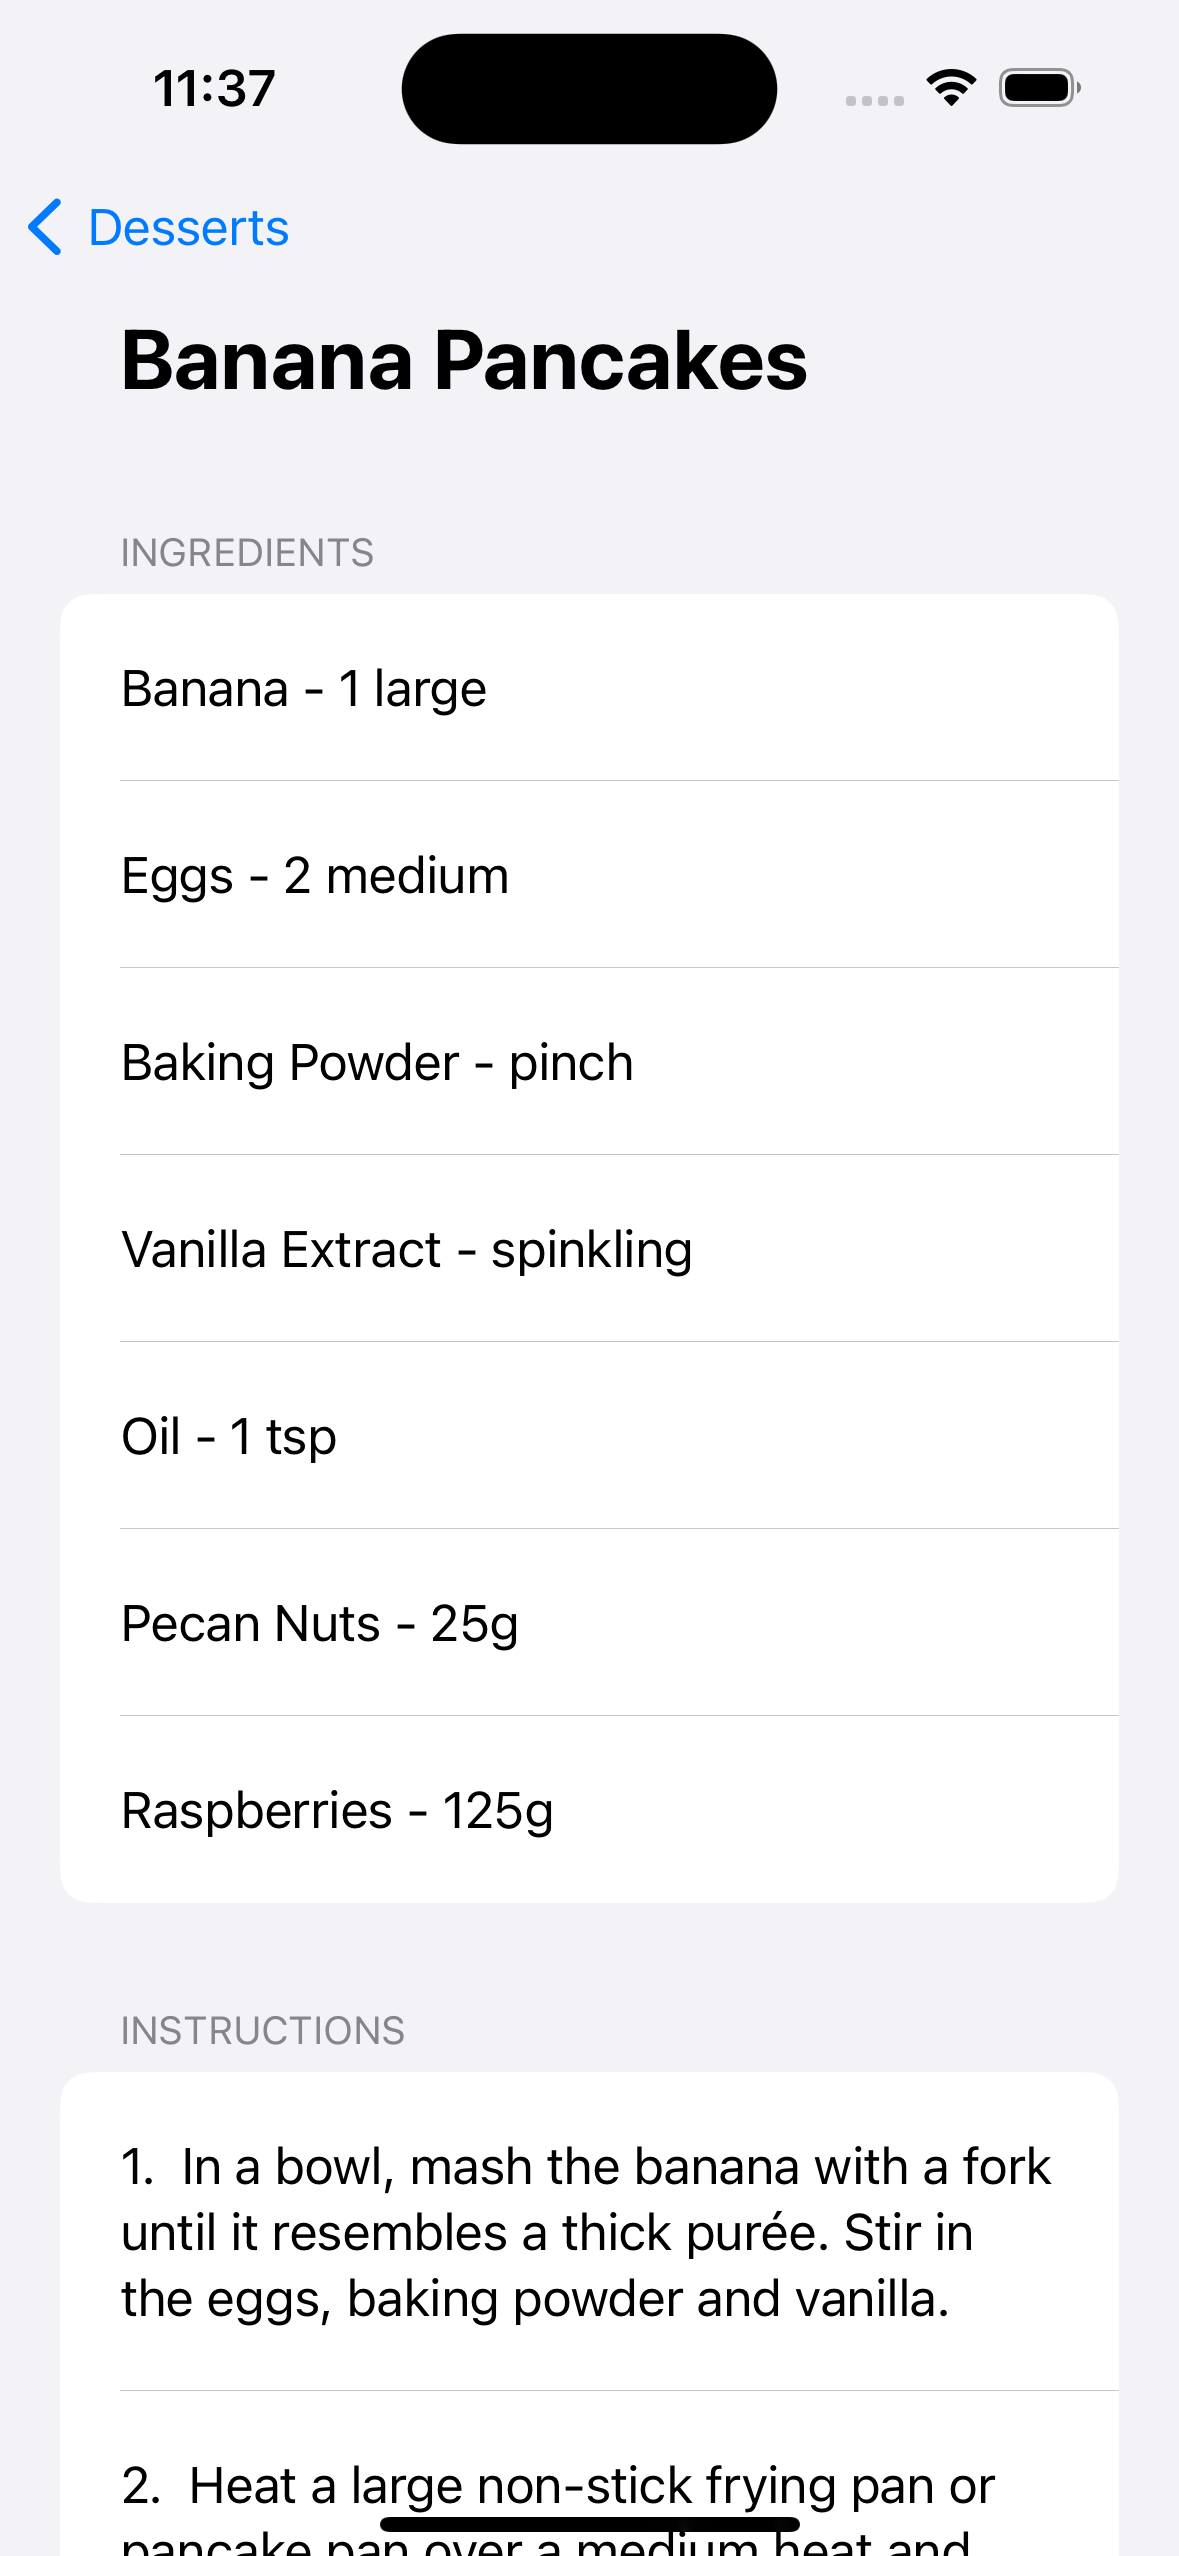
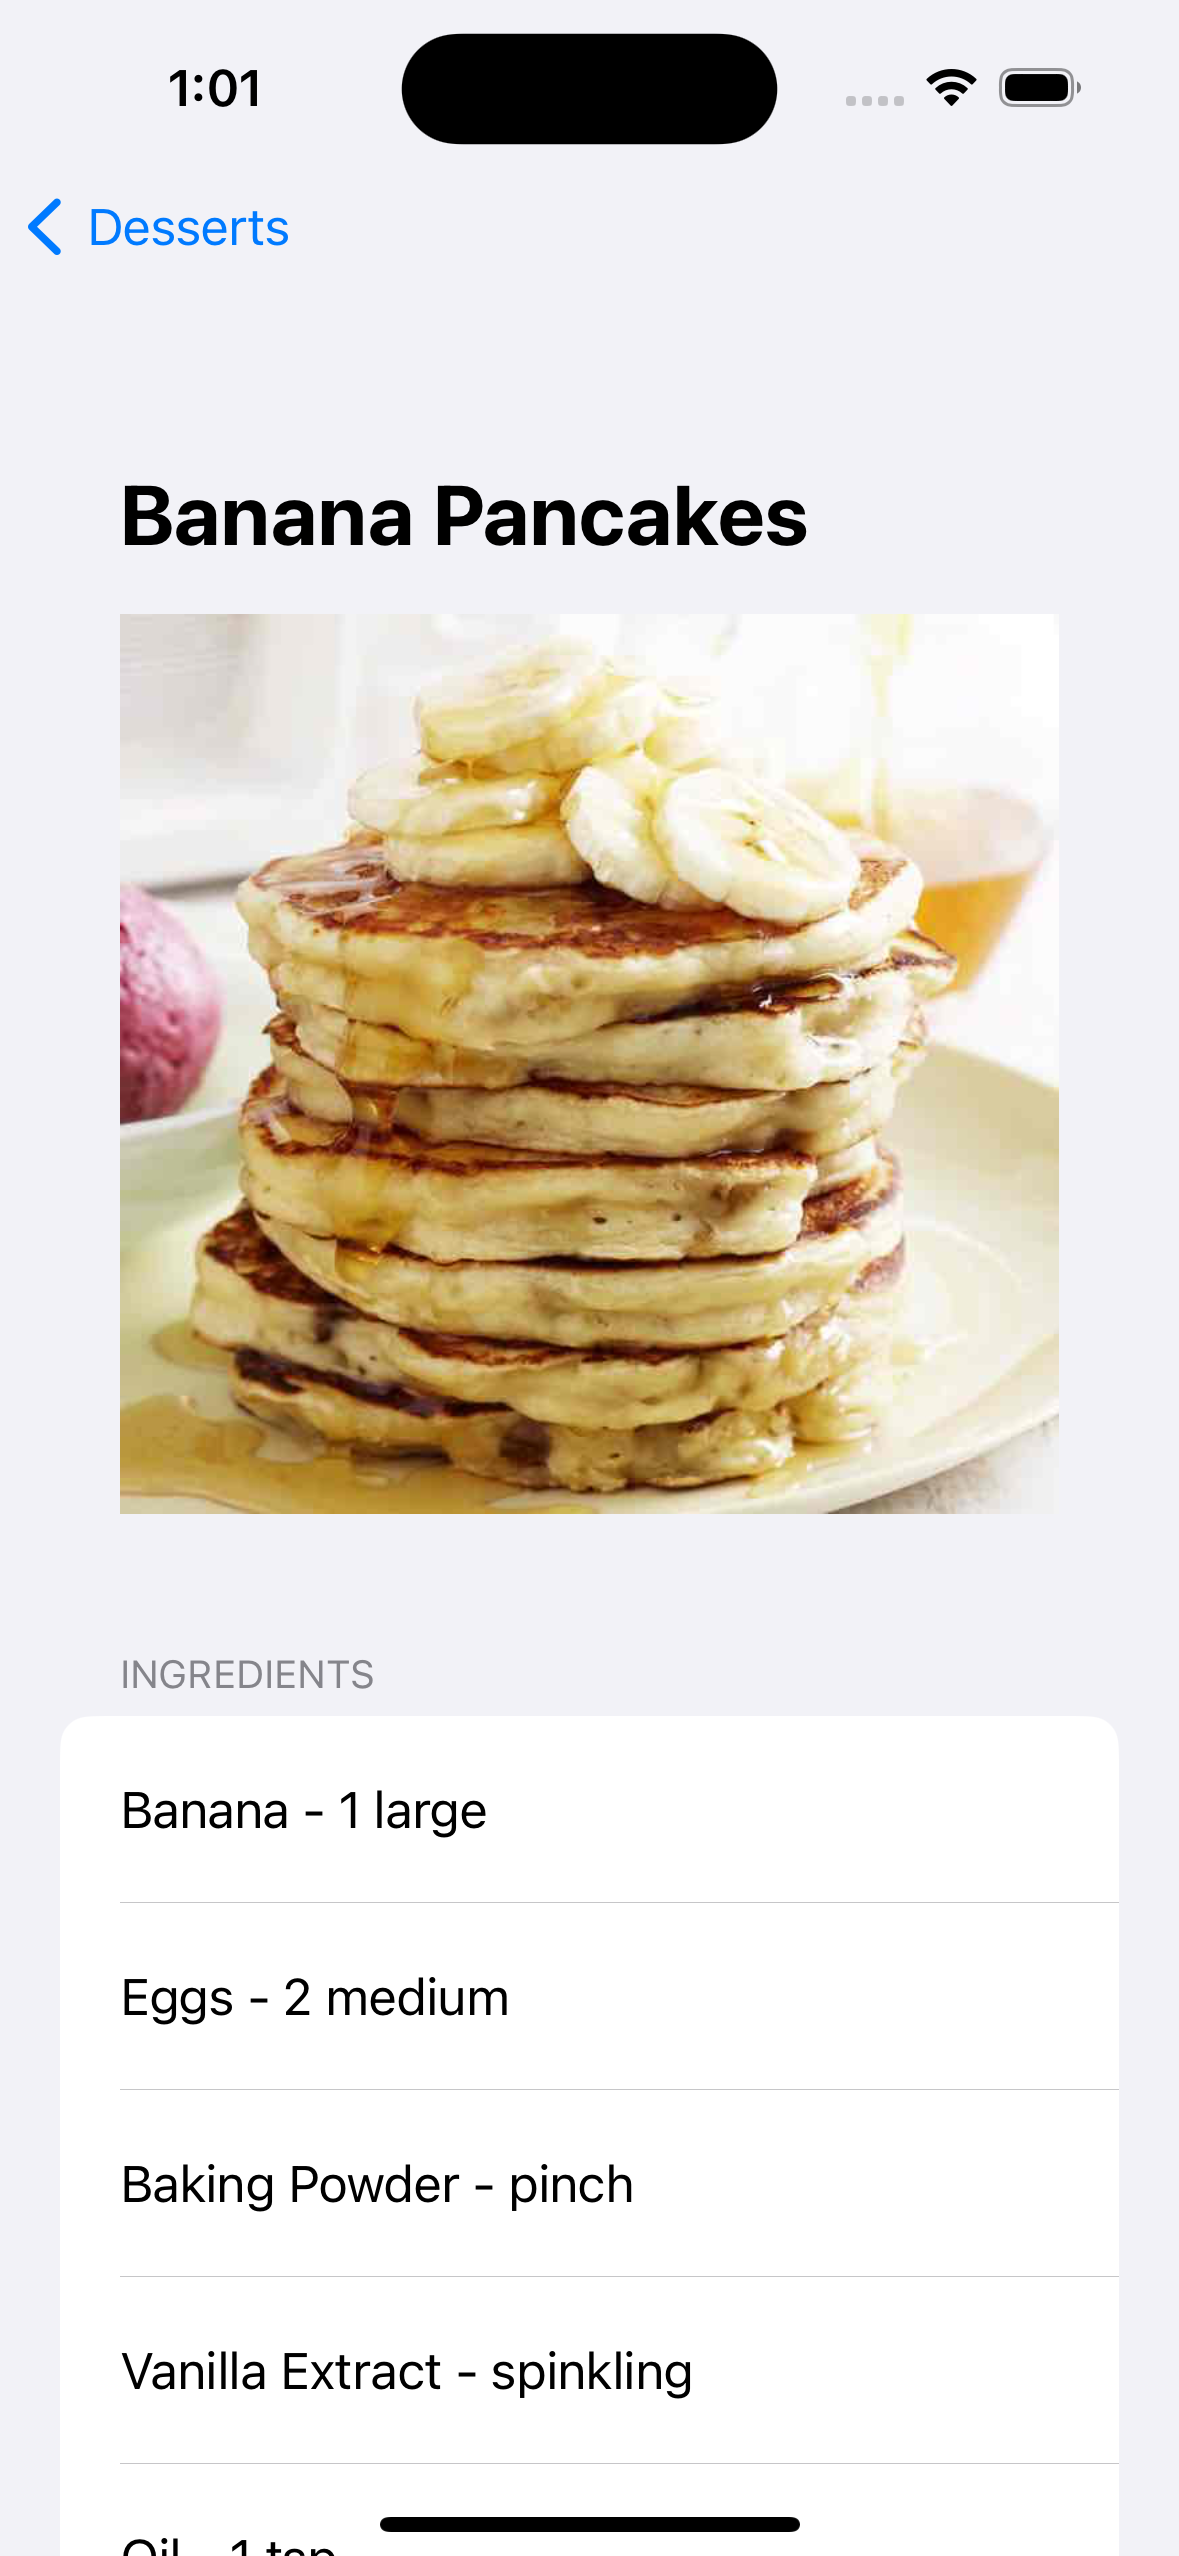
Display dessert image

diff --git a/Desserts/Network/ImageLoader.swift b/Desserts/Network/ImageLoader.swift
@@ -1,0 +1,63 @@
+//
+//  ImageLoader.swift
+//  Desserts
+//
+//  Created by Ismail Elmaliki on 4/16/23.
+//
+
+import Foundation
+import UIKit
+
+/// Abstract Image Loader.
+///
+/// Downloads and caches Dessert images.
+protocol ImageLoader {
+	/// Dessert in-memory image cache.
+	///
+	/// Using a key-store pair approach with NSCache, it uses the Dessert's `id` to cache its `UIImage`.
+	var imageCache: NSCache<NSString, UIImage> { get }
+	
+	/// Download dessert image using Dessert`id` then add to image cache.
+	///
+	/// If image is in cache, then it returns image to prevent redundant network call.
+	func downloadImage(_ dessert: Dessert, completion: @escaping (UIImage) -> ())
+}
+
+/// Prod implementation of `ImageLoader`.
+final class ImageProdLoader: ImageLoader {
+	static let shared: ImageLoader = ImageProdLoader()
+	let imageCache: NSCache<NSString, UIImage>
+	
+	private let urlSession: URLSession
+	
+	private init() {
+		urlSession = URLSession.shared
+		imageCache = NSCache()
+		
+		/// Maximum image cache limit is 100 MB.
+		imageCache.totalCostLimit = 100 * 1024 * 1024
+	}
+	
+	/// In order to conserve memory within cache, after fetching image
+	/// from network call image data is compressed with lower JPEG quality.
+	func downloadImage(_ dessert: Dessert, completion: @escaping (UIImage) -> ()) {
+		let storedImage = imageCache.object(forKey: NSString(string: dessert.id))
+		guard storedImage == nil else {
+			completion(storedImage!)
+			return
+		}
+		
+		let imageURL = URL(string: dessert.imageURL)!
+		
+		DispatchQueue.global().async { [weak self] in
+			if let self,
+			   let data = try? Data(contentsOf: imageURL),
+			   let image = UIImage(data: data),
+			   let compressedData = image.jpegData(compressionQuality: 0.2),
+			   let compressedImage = UIImage(data: compressedData) {
+				self.imageCache.setObject(compressedImage, forKey: NSString(string: dessert.id))
+				completion(compressedImage)
+			}
+		}
+	}
+}

diff --git a/Desserts/Dessert/DessertViewModel.swift b/Desserts/Dessert/DessertViewModel.swift
@@ -13,6 +13,9 @@ import SwiftUI
 protocol DessertViewModel: ObservableObject {
 	var dessert: Dessert { get }
 	var mealsAPI: MealAPI { get }
+	var imageLoader: ImageLoader { get }
+	
+	var image: UIImage? { get }
 	
 	/// List of instructions.
 	var instructions: [String] { get }
@@ -24,20 +27,32 @@ protocol DessertViewModel: ObservableObject {
 	///
 	/// Before performing a network call, check if dessert details exist. If so, no network call is made to prevent redundant network calls.
 	func fetchDetails()
+	
+	/// Executes request to load dessert image.
+	func fetchImage()
 }
 
 /// Implementation of `DessertListViewModel`.
 ///
 /// Because dependency injection for `MealAPI` is supported, this class can be used for unit testing purposes by passing in a mock version of `MealAPI`.
+/// Same applies to `ImageLoader`.
 final class DessertVMImplementer: DessertViewModel {
 	@Published var dessert: Dessert
+	@Published var image: UIImage?
 	
 	let mealsAPI: MealAPI
+	let imageLoader: ImageLoader
 	
-	init(_ dessert: Dessert, mealsAPI: MealAPI = MealProdAPI.shared) {
+	init(
+		_ dessert: Dessert,
+		imageLoader: ImageLoader = ImageProdLoader.shared,
+		mealsAPI: MealAPI = MealProdAPI.shared
+	) {
 		self.dessert = dessert
+		self.imageLoader = imageLoader
 		self.mealsAPI = mealsAPI
 		
+		fetchImage()
 		fetchDetails()
 	}
 	
@@ -69,6 +84,15 @@ final class DessertVMImplementer: DessertViewModel {
 				
 				/// Fire an alert to UI of changes.
 				self.objectWillChange.send()
+			}
+		}
+	}
+	
+	func fetchImage() {
+		imageLoader.downloadImage(dessert) { image in
+			/// Thread-safety to update UI on main thread.
+			DispatchQueue.main.async {
+				self.image = image
 			}
 		}
 	}

diff --git a/Desserts/Model/Dessert.swift b/Desserts/Model/Dessert.swift
@@ -16,16 +16,20 @@ class Dessert: Codable, Identifiable {
 	/// Unique identifier - important for fetching dessert specific information.
 	let id: String
 	
+	/// Image URL for dessert
+	let imageURL: String
+	
 	/// Sub-model, which includes more dessert details.
 	var details: DessertDetail?
 	
 	enum DessertKey: CodingKey {
-		case strMeal, idMeal
+		case strMeal, idMeal, strMealThumb
 	}
 	
 	required init(from decoder: Decoder) throws {
 		let values = try decoder.container(keyedBy: DessertKey.self)
 		name = try values.decode(String.self, forKey: .strMeal)
 		id = try values.decode(String.self, forKey: .idMeal)
+		imageURL = try values.decode(String.self, forKey: .strMealThumb)
 	}
 }

diff --git a/Desserts/Dessert/DessertView.swift b/Desserts/Dessert/DessertView.swift
@@ -26,6 +26,17 @@ struct DessertView<T: DessertViewModel>: View {
 			.listRowBackground(Color.clear)
 			.listRowSeparator(.hidden)
 			
+			/// Dessert image
+			Image(uiImage: viewModel.image ?? UIImage())
+				.resizable()
+				.frame(width: nil, height: 300)
+				.listRowBackground(Color.clear)
+				.listRowSeparator(.hidden)
+				.background(
+					/// If image is not available, display a gray background placeholder.
+					viewModel.image == nil ? .gray : .clear
+				)
+			
 			/// Ingredients section
 			Section(DessertViewStr.ingredients) {
 				ForEach(viewModel.ingredients, id: \.self) { ingredient in

diff --git a/README.md b/README.md
@@ -11,7 +11,7 @@
 ## Summary
 Purpose of this coding challenge is the following:
 1. Fetch desserts from Meal Database API, then display list of desserts alphabetically
-2. Fetch dessert details and display its name, ingredients with measurement, and instructions.
+2. Fetch dessert details and display its name, image, ingredients with measurement, and instructions.
 
 Before jumping into coding, I made sure to fully understand the requirements and given REST endpoints.
 
@@ -116,9 +116,12 @@ Time to think about app architecture. I decided to go with the **MVVM (Model, Vi
 
 For the **Model**, I'll use the `Codable` protocol to seamlessly decode API responses into Swift models.
 
+For networking, I'll be using a `MealAPI` to handle Meal endpoint requests. I'll also be using `ImageLoader` to handle downloading and caching dessert images. Both network components are abstracted using the Factory design pattern by using Swift protocols. 
+
 Taking performance into account, I'll be doing the following to reduce network calls:
 - Fetch list of desserts **only once**
 - Fetch dessert details **only once when requested by user**. If user views same dessert a second time, **no extra network calls are executed** since it was already fetched.
+- Utilizing an `ImageLoader` to handle downloading and caching dessert images. The image is fetched when user views dessert details.
 
 
 <br />
